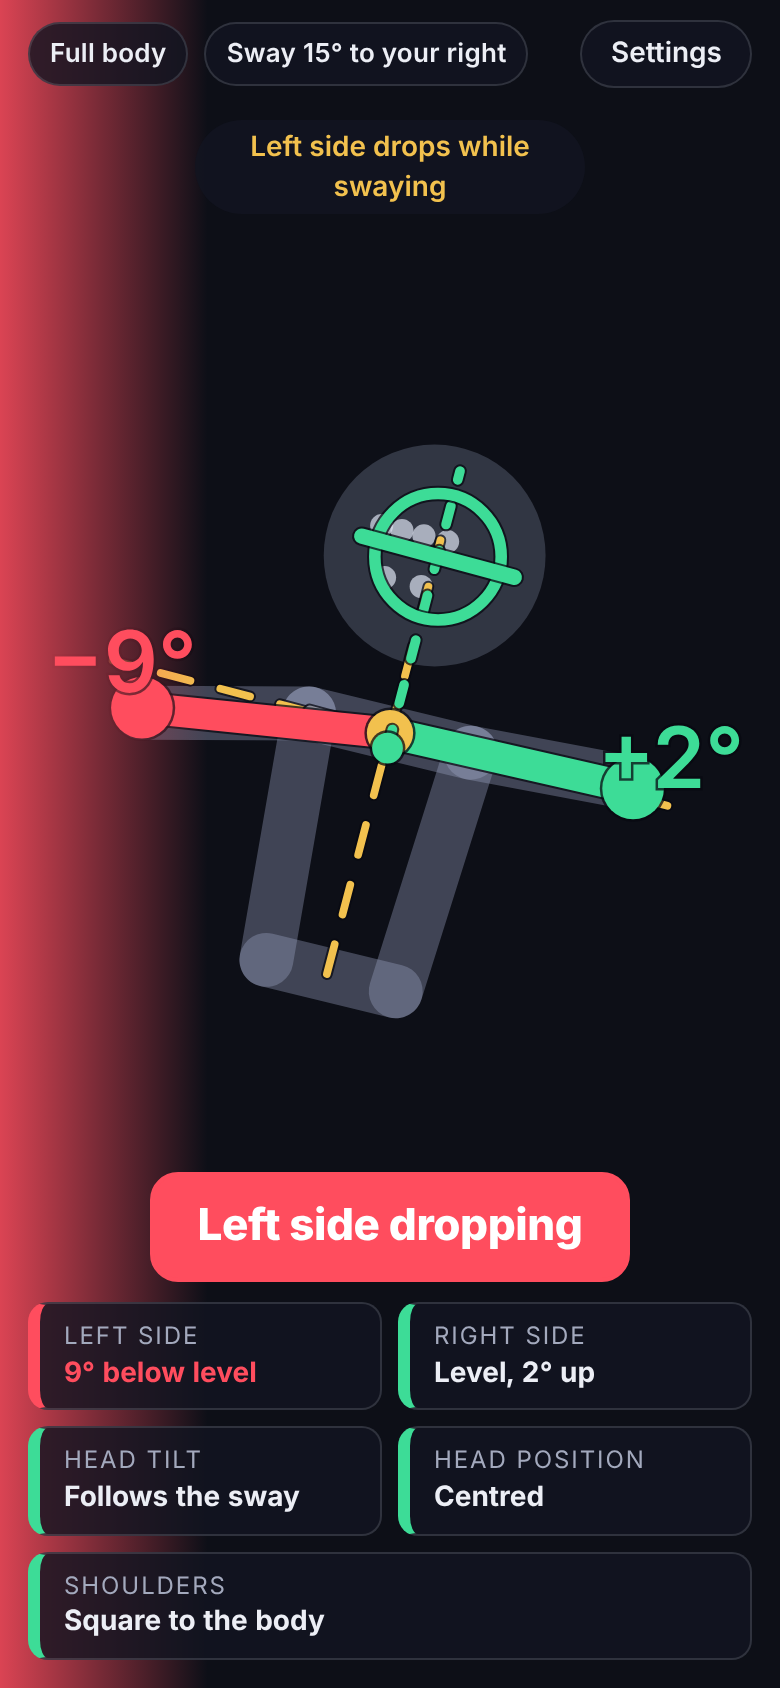
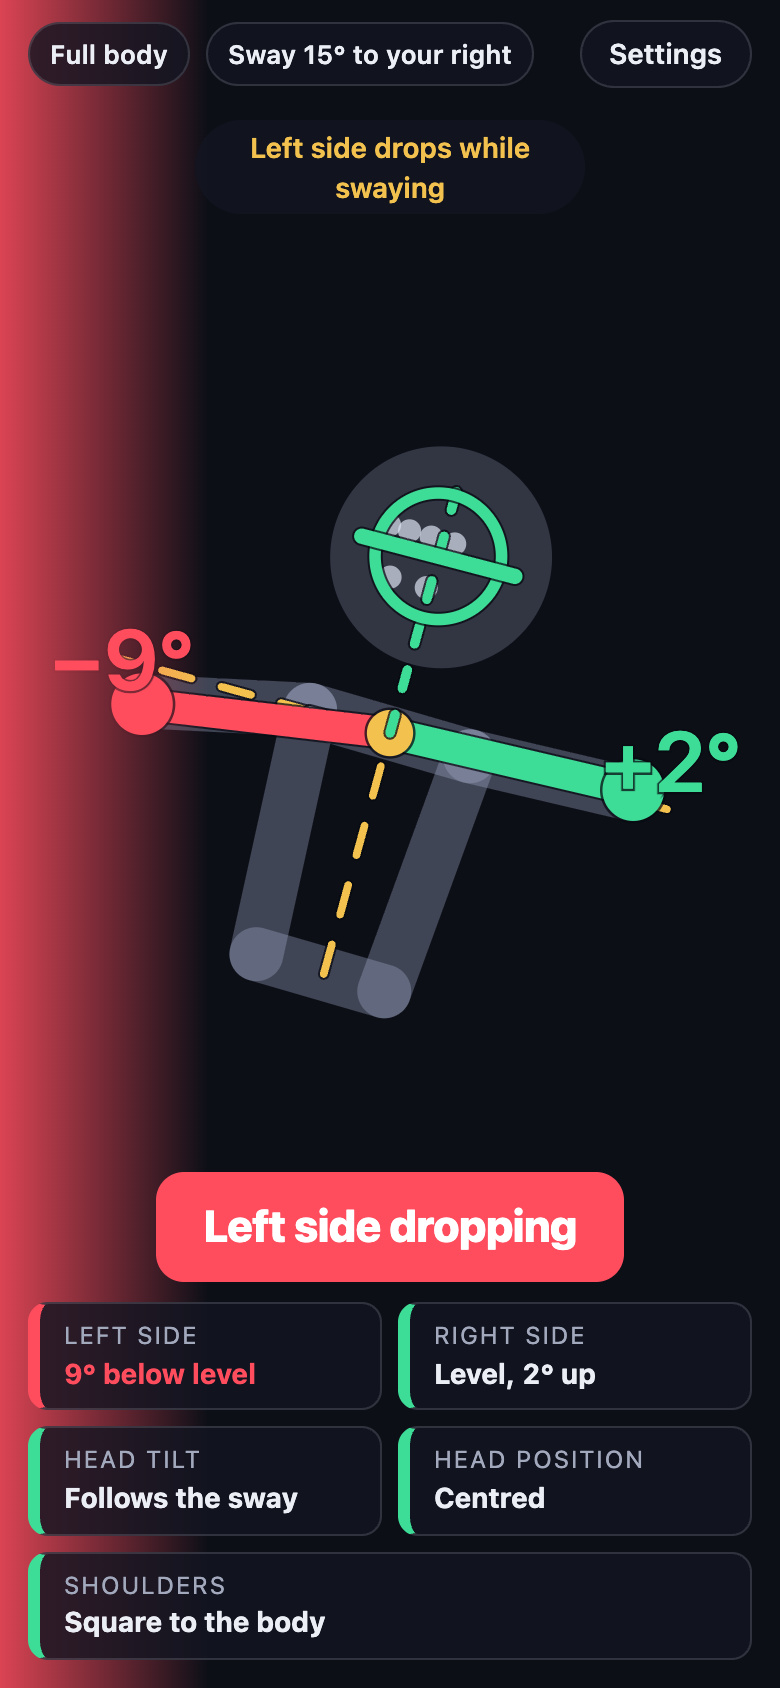
Pupils in the head-tilt axis, per-check on/off switches, new guide picture
Head tilt now also uses the pupil line (iris centres 473/468). The eyes move
together, so gaze shifts both pupils alike and leaves the angle alone; a test
covers gaze and a pupils-only face. Head position stays on the ears, since the
pupils slide toward the nose when the head turns left.

Settings gains a Checks group: left side, right side, head tilt, head position,
shoulders, all on by default. A switched-off check reads "Turned off", draws
grey and never reaches the banner. Torso view's shoulder state is renamed
level-line so it is not confused with a switched-off check.

assets/guide-demo.png re-shot at 390x844 @2x from the demo: the head target now
rises from the shoulders.

diff --git a/src/feedback.js b/src/feedback.js
@@ -3,7 +3,10 @@
 const deg = (d) => `${Math.abs(d).toFixed(0)}°`;
 const side = (dir) => (dir === 'left' ? 'left' : 'right');
 
+const OFF = (id, label) => ({ id, label, value: 'Turned off', tone: 'idle' });
+
 function sideTile(id, name, s) {
+  if (s.state === 'off') return OFF(id, name);
   if (s.state === 'untracked') return { id, label: name, value: 'Elbow not visible', tone: 'idle' };
   if (s.state === 'drop') return { id, label: name, value: `${deg(s.elev)} below level`, tone: 'fault' };
   return { id, label: name, value: s.elev >= 0 ? `Level, ${deg(s.elev)} up` : `Level, ${deg(s.elev)} down`, tone: 'ok' };
@@ -22,18 +25,20 @@ export function feedback(v) {
   const tiles = [
     sideTile('left', 'Left side', v.left),
     sideTile('right', 'Right side', v.right),
-    h.tilt === 'untracked'
+    h.tilt === 'off' ? OFF('headTilt', 'Head tilt') : h.tilt === 'untracked'
       ? { id: 'headTilt', label: 'Head tilt', value: 'Face not visible', tone: 'idle' }
       : h.tilt === 'ok'
         ? { id: 'headTilt', label: 'Head tilt', value: 'Follows the sway', tone: 'ok' }
         : { id: 'headTilt', label: 'Head tilt', value: `${deg(h.roll)} to your ${side(h.tilt)}`, tone: 'fault' },
-    h.shift === 'untracked'
+    h.shift === 'off' ? OFF('headPos', 'Head position') : h.shift === 'untracked'
       ? { id: 'headPos', label: 'Head position', value: 'Not visible', tone: 'idle' }
       : h.shift === 'ok'
         ? { id: 'headPos', label: 'Head position', value: 'Centred', tone: 'ok' }
         : { id: 'headPos', label: 'Head position', value: `Off centre to your ${side(h.shift)}`, tone: 'fault' },
-    v.shoulder.state === 'off'
+    v.shoulder.state === 'level-line'
       ? { id: 'shoulders', label: 'Shoulders', value: 'Used as the level line', tone: 'idle' }
+      : v.shoulder.state === 'off'
+        ? OFF('shoulders', 'Shoulders')
       : v.shoulder.state === 'untracked'
         ? { id: 'shoulders', label: 'Shoulders', value: 'Hips not visible', tone: 'idle' }
         : v.shoulder.state === 'ok'
@@ -41,14 +46,16 @@ export function feedback(v) {
           : { id: 'shoulders', label: 'Shoulders', value: `${side(v.shoulder.state)} side low, ${deg(v.shoulder.tilt)}`.replace(/^./, (c) => c.toUpperCase()), tone: 'fault' },
   ];
 
-  let text = 'Frame level, head centred', tone = 'ok';
+  const headOff = h.tilt === 'off' && h.shift === 'off';
+  const clear = headOff ? 'Frame level' : 'Frame level, head centred';
+  let text = clear, tone = 'ok';
   if (v.umbrella) text = 'Both sides dropping';
   else if (v.left.state === 'drop') text = 'Left side dropping';
   else if (v.right.state === 'drop') text = 'Right side dropping';
   else if (h.tilt === 'left' || h.tilt === 'right') text = `Head tilted to your ${h.tilt}`;
   else if (h.shift === 'left' || h.shift === 'right') text = `Head drifting to your ${h.shift}`;
   else if (v.shoulder.state === 'left' || v.shoulder.state === 'right') text = `${v.shoulder.state === 'left' ? 'Left' : 'Right'} shoulder dropping`;
-  if (text !== 'Frame level, head centred') tone = 'fault';
+  if (text !== clear) tone = 'fault';
 
   const sway = Math.abs(v.sway) < 2 ? 'Upright' : `Sway ${deg(v.sway)} to your ${v.sway > 0 ? 'right' : 'left'}`;
   return { banner: { text, tone }, tiles, sway, mode: v.mode === 'full' ? 'Full body' : 'Torso only' };

diff --git a/src/session.js b/src/session.js
@@ -7,8 +7,13 @@ import { evaluate, DEFAULT_TOLERANCES } from './rules.js';
 
 const SIGNALS = ['leftDrop', 'rightDrop', 'shoulder', 'headTilt', 'headShift'];
 
+// Checks the dancer can switch off. All on by default.
+export const DEFAULT_CHECKS = Object.freeze({ left: true, right: true, headTilt: true, headPos: true, shoulders: true });
+const SIGNAL_CHECK = { leftDrop: 'left', rightDrop: 'right', shoulder: 'shoulders', headTilt: 'headTilt', headShift: 'headPos' };
+
 export class Session {
-  constructor({ tolerances = {}, tracking = {}, smoothing = {}, timing = {} } = {}) {
+  constructor({ tolerances = {}, tracking = {}, checks = {}, smoothing = {}, timing = {} } = {}) {
+    this.checks = { ...DEFAULT_CHECKS, ...checks };
     this.tolerances = { ...DEFAULT_TOLERANCES, ...tolerances };
     this.tracking = { ...DEFAULT_TRACKING, ...tracking };
     this.poseSmoother = new LandmarkSmoother(Object.values(POSE), smoothing);
@@ -18,6 +23,7 @@ export class Session {
 
   setTolerances(t) { this.tolerances = { ...this.tolerances, ...t }; }
   setTracking(t) { this.tracking = { ...this.tracking, ...t }; }
+  setChecks(c) { this.checks = { ...this.checks, ...c }; }
 
   update({ pose, face, aspect, t }) {
     const tSec = t / 1000;
@@ -27,16 +33,20 @@ export class Session {
     const s = evaluate(m, this.tolerances);
 
     const on = {};
+    const off = (k) => !this.checks[SIGNAL_CHECK[k]];
     for (const k of SIGNALS) {
-      if (!m.tracked || s[k].value == null) {
+      if (off(k)) {
+        this.latches[k].reset();
+        on[k] = 'off';
+      } else if (!m.tracked || s[k].value == null) {
         this.latches[k].reset();
         on[k] = null;
       } else {
         on[k] = this.latches[k].update(s[k].fault, s[k].clear, t);
       }
     }
-    const side = (k, elev) => ({ elev, state: on[k] === null ? 'untracked' : on[k] ? 'drop' : 'ok' });
-    const dirState = (k) => (on[k] === null ? 'untracked' : on[k] ? s[k].dir : 'ok');
+    const side = (k, elev) => ({ elev, state: on[k] === 'off' ? 'off' : on[k] === null ? 'untracked' : on[k] ? 'drop' : 'ok' });
+    const dirState = (k) => (on[k] === 'off' ? 'off' : on[k] === null ? 'untracked' : on[k] ? s[k].dir : 'ok');
 
     const left = side('leftDrop', m.elevL);
     const right = side('rightDrop', m.elevR);
@@ -47,7 +57,7 @@ export class Session {
       left,
       right,
       umbrella: left.state === 'drop' && right.state === 'drop',
-      shoulder: { tilt: m.shoulderTilt, state: m.mode === 'torso' ? 'off' : dirState('shoulder') },
+      shoulder: { tilt: m.shoulderTilt, state: m.mode === 'torso' ? 'level-line' : dirState('shoulder') },
       head: {
         roll: m.headRoll,
         offset: m.headOffset,

diff --git a/src/main.js b/src/main.js
@@ -1,6 +1,6 @@
 // App shell: camera or demo source -> Session -> canvas overlay + HUD.
 
-import { Session } from './session.js';
+import { Session, DEFAULT_CHECKS } from './session.js';
 import { DEFAULT_TOLERANCES } from './rules.js';
 import { feedback } from './feedback.js';
 import { drawOverlay, drawStickFigure, contentRect } from './overlay.js';
@@ -18,6 +18,7 @@ const DEFAULTS = {
   mirror: true,
   rear: false,
   lite: false,
+  checks: { ...DEFAULT_CHECKS },
   tol: { frameDeg: DEFAULT_TOLERANCES.frameDeg, headRollDeg: DEFAULT_TOLERANCES.headRollDeg, headOffset: DEFAULT_TOLERANCES.headOffset, shoulderDeg: DEFAULT_TOLERANCES.shoulderDeg },
 };
 const KEY = 'frame-coach-settings-v2';
@@ -29,7 +30,7 @@ function loadSettings() {
       s = JSON.parse(localStorage.getItem('frame-coach-settings-v1') || 'null');
       if (s?.tol) delete s.tol.headOffset;
     }
-    return s ? { ...DEFAULTS, ...s, tol: { ...DEFAULTS.tol, ...s.tol } } : structuredClone(DEFAULTS);
+    return s ? { ...DEFAULTS, ...s, checks: { ...DEFAULTS.checks, ...s.checks }, tol: { ...DEFAULTS.tol, ...s.tol } } : structuredClone(DEFAULTS);
   } catch {
     return structuredClone(DEFAULTS);
   }
@@ -39,7 +40,7 @@ function saveSettings() {
 }
 const settings = loadSettings();
 
-const session = new Session({ tolerances: settings.tol, tracking: { mode: settings.mode } });
+const session = new Session({ tolerances: settings.tol, tracking: { mode: settings.mode }, checks: settings.checks });
 
 // ---- sources ------------------------------------------------------------------
 let source = null; // 'camera' | 'demo'
@@ -199,6 +200,7 @@ function syncSettingsForm() {
   $('#mirror').checked = settings.mirror;
   $('#rear').checked = settings.rear;
   $('#lite').checked = settings.lite;
+  for (const k of Object.keys(DEFAULT_CHECKS)) $(`#check-${k}`).checked = settings.checks[k];
   for (const [sel, key, fmt] of sliders) {
     $(sel).value = settings.tol[key];
     $(`${sel}-out`).textContent = fmt(settings.tol[key]);
@@ -208,6 +210,7 @@ function syncSettingsForm() {
 function applySettings() {
   session.setTolerances(settings.tol);
   session.setTracking({ mode: settings.mode });
+  session.setChecks(settings.checks);
   saveSettings();
 }
 
@@ -237,6 +240,9 @@ $('#lite').addEventListener('change', async (e) => {
   applySettings();
   if (source === 'camera') await loadTracker().catch(() => {});
 });
+for (const k of Object.keys(DEFAULT_CHECKS)) {
+  $(`#check-${k}`).addEventListener('change', (e) => { settings.checks[k] = e.target.checked; applySettings(); });
+}
 for (const [sel, key, fmt] of sliders) {
   $(sel).addEventListener('input', (e) => {
     settings.tol[key] = Number(e.target.value);

diff --git a/guide.html b/guide.html
@@ -105,7 +105,7 @@ footer { color: var(--dim); font-size: 14px; margin-top: 36px; border-top: 1px s
   <h2 id="reading">Reading the screen</h2>
   <figure class="shot">
     <img src="assets/guide-demo.png" alt="Demo screen: the figure sways to its right, the left arm line is red at minus 9 degrees, the right arm is green at plus 2 degrees, and the banner reads Left side dropping." width="780" height="1688">
-    <figcaption>Demo, swaying right. The left arm sits 9° below the sway-adjusted level line, so it is red, the left screen edge glows red and the banner names it. The right arm is 2° above level and green. The head tilts with the sway, so its ring is green.</figcaption>
+    <figcaption>Demo, swaying right. The left arm sits 9° below the sway-adjusted level line, so it is red, the left screen edge glows red and the banner names it. The right arm is 2° above level and green. The head tilts with the sway and sits on the dashed line rising from the middle of the shoulders, so it is green.</figcaption>
   </figure>
   <ul class="legend">
     <li><svg viewBox="0 0 64 36" aria-hidden="true"><line x1="4" y1="18" x2="60" y2="18" stroke="#f2c14e" stroke-width="3" stroke-dasharray="7 6" stroke-linecap="round"/></svg>
@@ -137,6 +137,7 @@ footer { color: var(--dim); font-size: 14px; margin-top: 36px; border-top: 1px s
     <thead><tr><th>Setting</th><th>What it does</th><th>Default</th></tr></thead>
     <tbody>
       <tr><td>View</td><td>Auto picks full body when the hips are visible and torso otherwise. Pick one to stop it switching.</td><td>Auto</td></tr>
+      <tr><td>Checks</td><td>Switch any of the five checks off. A switched-off check reads "Turned off", stays grey on screen and never reaches the banner.</td><td>All on</td></tr>
       <tr><td>Mirror image</td><td>Shows the picture like a mirror.</td><td>On</td></tr>
       <tr><td>Use rear camera</td><td>Sharper picture, but you cannot see the screen unless someone holds the phone. Turns mirroring off.</td><td>Off</td></tr>
       <tr><td>Faster, less precise tracking</td><td>For older phones. Use it if the picture lags; on larger screens a frame-rate counter shows at the top.</td><td>Off</td></tr>

diff --git a/test/analyze.test.js b/test/analyze.test.js
@@ -1,7 +1,7 @@
 import { test } from 'node:test';
 import assert from 'node:assert/strict';
 import { measure, chooseMode } from '../src/analyze.js';
-import { POSE } from '../src/landmarks.js';
+import { POSE, FACE_PAIRS } from '../src/landmarks.js';
 import { makeDancer, imageAngle } from './fixtures.js';
 
 const close = (a, b, eps, msg) => assert.ok(Math.abs(a - b) <= eps, `${msg ?? ''} expected ${b}, got ${a}`);
@@ -57,6 +57,17 @@ test('head roll is measured relative to the body and ignores head turn and nod',
     const m = run({ sway: 12, headRoll: 6, headYaw: yaw, headPitch: pitch });
     close(m.headRoll, 6, 1e-6, `yaw ${yaw} pitch ${pitch}`);
   }
+});
+
+test('the pupil line counts toward head tilt, and gaze does not move it', () => {
+  for (const [gx, gy] of [[0, 0], [0.012, 0], [-0.012, 0.006]]) {
+    const m = run({ sway: -14, headRoll: 7, headYaw: 20, gazeX: gx, gazeY: gy });
+    close(m.headRoll, 7, 1e-6, `gaze ${gx},${gy}`);
+  }
+  // Pupils alone (every other face pair missing) still give the axis.
+  const d = makeDancer({ sway: 9, headRoll: -6 });
+  for (const [l, r] of FACE_PAIRS.slice(0, -1)) { d.face[l] = undefined; d.face[r] = undefined; }
+  close(measure(d).headRoll, -6, 1e-6, 'pupils only');
 });
 
 test('head offset is a fraction of half the shoulder width, measured from the body axis along body-horizontal', () => {

diff --git a/src/overlay.js b/src/overlay.js
@@ -69,7 +69,7 @@ function label(ctx, p, text, color, px) {
   ctx.restore();
 }
 
-const stateColor = (s) => (s === 'ok' ? COLORS.ok : s === 'untracked' || s === 'off' ? COLORS.muted : COLORS.fault);
+const stateColor = (s) => (s === 'ok' ? COLORS.ok : s === 'untracked' || s === 'off' || s === 'level-line' ? COLORS.muted : COLORS.fault);
 const fmtDeg = (d) => `${d >= 0 ? '+' : '−'}${Math.abs(d).toFixed(0)}°`;
 
 export function drawOverlay(ctx, { rect, aspect, mirror, verdict, dpr = 1 }) {
@@ -109,7 +109,7 @@ export function drawOverlay(ctx, { rect, aspect, mirror, verdict, dpr = 1 }) {
     const up = dot(sub(P.C, S), F.u);
     const target = add(S, scale(F.u, up));
     line(ctx, map(S), map(add(S, scale(F.u, up + r * 1.4))), stateColor(shift), 2.5 * k, [5 * k, 7 * k]);
-    if (shift !== 'ok' && shift !== 'untracked') line(ctx, map(target), map(P.C), COLORS.fault, 3 * k);
+    if (shift === 'left' || shift === 'right') line(ctx, map(target), map(P.C), COLORS.fault, 3 * k);
     ring(ctx, map(P.C), r * rect.h, stateColor(shift), 3 * k); // world units are image heights
     if (P.faceAxis) {
       const a = map(add(P.C, scale(P.faceAxis, -r * 1.25)));

diff --git a/test/feedback.test.js b/test/feedback.test.js
@@ -44,7 +44,7 @@ test('sway reads in plain words', () => {
 });
 
 test('torso mode explains the shoulder reference instead of judging it', () => {
-  const f = feedback(v({ mode: 'torso', shoulder: { tilt: null, state: 'off' } }));
+  const f = feedback(v({ mode: 'torso', shoulder: { tilt: null, state: 'level-line' } }));
   assert.equal(f.mode, 'Torso only');
   assert.equal(f.tiles.find((t) => t.id === 'shoulders').value, 'Used as the level line');
 });
@@ -53,4 +53,11 @@ test('nobody in view asks the dancer to step in', () => {
   const f = feedback({ tracked: false });
   assert.equal(f.banner.tone, 'idle');
   assert.match(f.banner.text, /shoulders and elbows/);
+});
+
+test('switched-off checks read "Turned off" and never reach the banner', () => {
+  const f = feedback(v({ left: { elev: -9, state: 'off' }, head: { roll: 9, offset: 0, source: 'face', tilt: 'off', shift: 'off' }, shoulder: { tilt: 0, state: 'off' } }));
+  for (const id of ['left', 'headTilt', 'headPos', 'shoulders']) assert.equal(f.tiles.find((t) => t.id === id).value, 'Turned off', id);
+  assert.equal(f.banner.tone, 'ok');
+  assert.equal(f.banner.text, 'Frame level');
 });

diff --git a/src/synthetic.js b/src/synthetic.js
@@ -45,6 +45,8 @@ export const DEFAULT_DANCER = {
   headRoll: 0, // deg relative to the body; + = head tilted to the dancer's right
   headYaw: 0, // deg; + = face turned toward the dancer's left
   headPitch: 0,
+  gazeX: 0, // pupils' shift in the eye, head-local units; + = looking to the dancer's left
+  gazeY: 0,
   headOffset: 0, // fraction of half the shoulder width; + = toward the dancer's left
   size: 1, // multiplies every body length below
   armReach: 0.3, // shoulder midpoint to elbow, in image heights
@@ -111,9 +113,11 @@ export function makeDancer(overrides = {}) {
   if (p.faceVisible) {
     const c = place(C);
     face = Array.from({ length: FACE_COUNT }, () => ({ x: c.x, y: c.y, z: 0 }));
+    const pupils = [[0.03 + p.gazeX, 0.02 + p.gazeY, 0.078], [-0.03 + p.gazeX, 0.02 + p.gazeY, 0.078]];
+    const local = [...FACE_LOCAL, pupils];
     FACE_PAIRS.forEach(([li, ri], k) => {
-      face[li] = { ...place(head(FACE_LOCAL[k][0])), z: 0 };
-      face[ri] = { ...place(head(FACE_LOCAL[k][1])), z: 0 };
+      face[li] = { ...place(head(local[k][0])), z: 0 };
+      face[ri] = { ...place(head(local[k][1])), z: 0 };
     });
   }
 

diff --git a/index.html b/index.html
@@ -62,6 +62,14 @@
       <label class="row"><span>Faster, less precise tracking</span><input type="checkbox" id="lite"></label>
     </fieldset>
     <fieldset>
+      <legend>Checks</legend>
+      <label class="row"><span>Left side</span><input type="checkbox" id="check-left"></label>
+      <label class="row"><span>Right side</span><input type="checkbox" id="check-right"></label>
+      <label class="row"><span>Head tilt</span><input type="checkbox" id="check-headTilt"></label>
+      <label class="row"><span>Head position</span><input type="checkbox" id="check-headPos"></label>
+      <label class="row"><span>Shoulders (full body only)</span><input type="checkbox" id="check-shoulders"></label>
+    </fieldset>
+    <fieldset>
       <legend>Tolerances</legend>
       <label class="slider"><span>Side may sit below level by</span><output id="tol-frame-out"></output>
         <input type="range" id="tol-frame" min="0" max="10" step="0.5"></label>

diff --git a/test/session.test.js b/test/session.test.js
@@ -72,3 +72,21 @@ test('tolerances can be changed live', () => {
   v = frames(s, { elevL: -2 }, 1033, 2000);
   assert.equal(v.left.state, 'drop');
 });
+
+test('a switched-off check never reports, and comes back when switched on', () => {
+  const s = new Session({ checks: { left: false, headTilt: false } });
+  const bad = { sway: 15, elevL: -9, headRoll: -9 };
+  let v = frames(s, bad, 0, 1500);
+  assert.equal(v.left.state, 'off');
+  assert.equal(v.head.tilt, 'off');
+  assert.equal(v.right.state, 'ok', 'other checks keep running');
+  s.setChecks({ left: true, headTilt: true });
+  v = frames(s, bad, 1533, 3000);
+  assert.equal(v.left.state, 'drop');
+  assert.equal(v.head.tilt, 'left');
+});
+
+test('every check is on by default', () => {
+  const v = frames(new Session(), { sway: 10 }, 0, 600);
+  for (const st of [v.left.state, v.right.state, v.shoulder.state, v.head.tilt, v.head.shift]) assert.equal(st, 'ok');
+});

diff --git a/src/landmarks.js b/src/landmarks.js
@@ -18,13 +18,16 @@ export const POSE = {
 export const POSE_COUNT = 33;
 
 // Face mesh (478 points). Symmetric pairs as [dancer's left, dancer's right]:
-// outer eye corners, inner eye corners, mouth corners, face edge at the cheeks.
-// Their averaged left-minus-right direction is the face's left-right axis.
+// outer eye corners, inner eye corners, mouth corners, face edge at the cheeks,
+// pupils (iris centres). Their averaged left-minus-right direction is the face's
+// left-right axis. The eyes move together, so gaze shifts both pupils alike and
+// leaves the pupil line's angle alone.
 export const FACE_PAIRS = [
   [263, 33],
   [362, 133],
   [291, 61],
   [454, 234],
+  [473, 468],
 ];
 
 export const FACE_CHEEKS = [454, 234];

diff --git a/src/analyze.js b/src/analyze.js
@@ -55,7 +55,7 @@ export function measure({ pose, face, aspect }, opts = {}) {
 
   let axis = null, headSource = null;
   if (face) {
-    axis = faceAxis(FACE_PAIRS.map(([l, r]) => [W(face[l]), W(face[r])]));
+    axis = faceAxis(FACE_PAIRS.filter(([l, r]) => face[l] && face[r]).map(([l, r]) => [W(face[l]), W(face[r])]));
     headSource = 'face';
   }
   if (!axis) {
